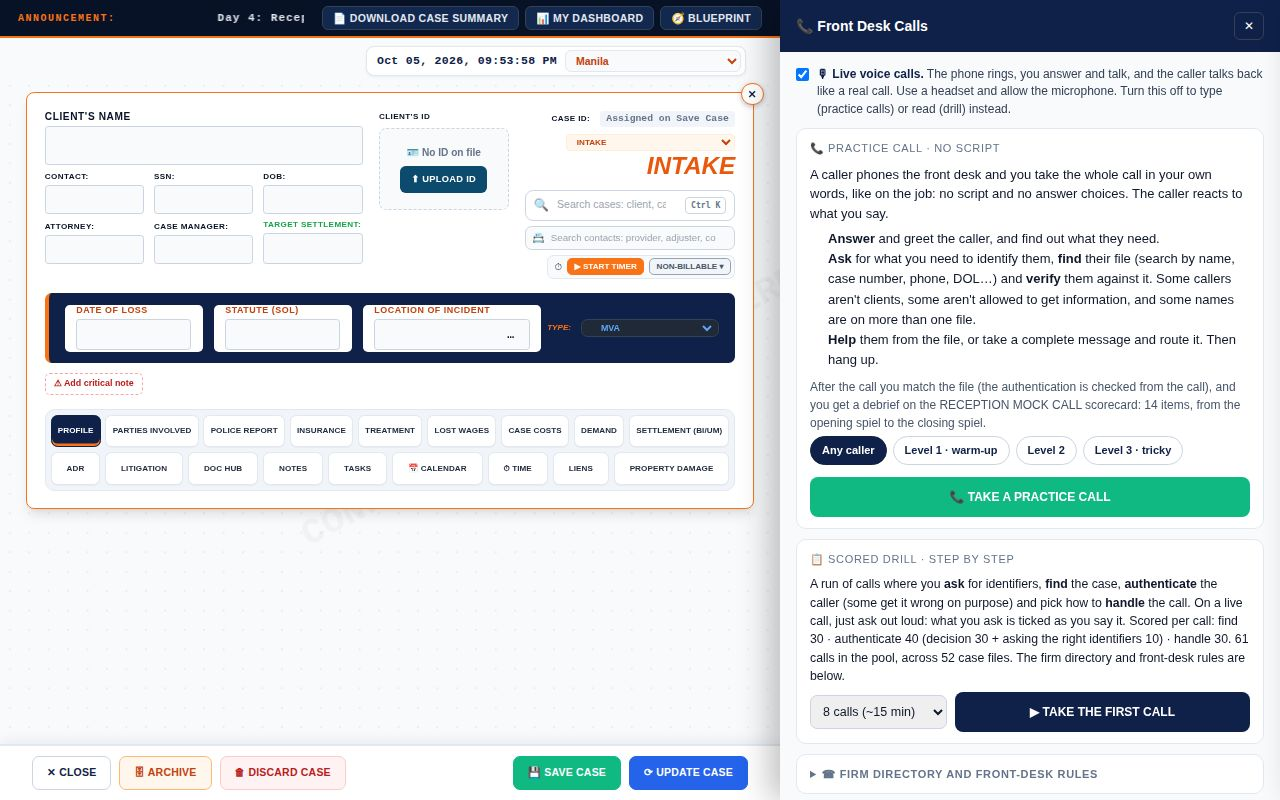
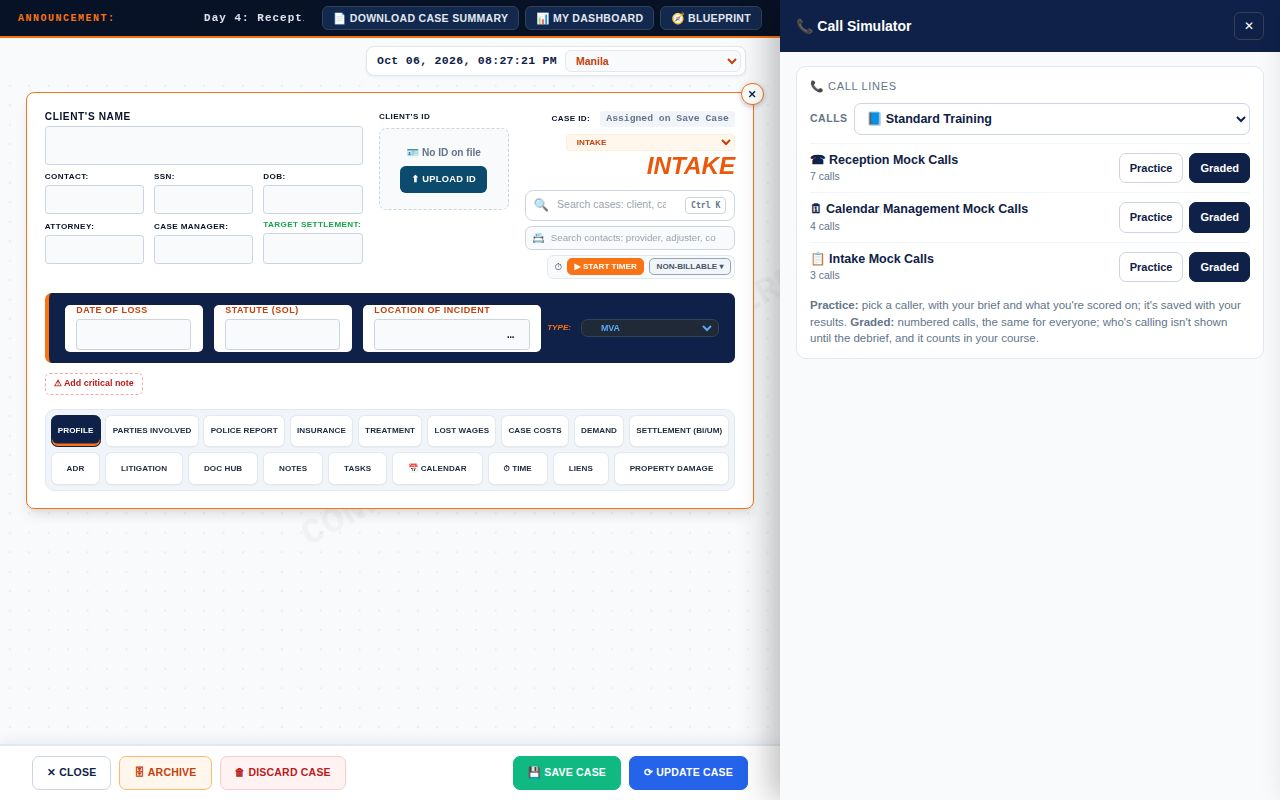
Call Simulator: the home screen is the call lines only
The panel's home screen keeps 📞 Call lines (the Calls dropdown, each line with Practice and
Graded) and drops everything else: the Core callers' list and its Standard buttons, the
scored drill, the firm directory, the live-usage panel and the results. The live voice choice
moves to a line's screen, above its calls; a call's debrief still shows the results (with the
Show dropdowns and the saved calls). The Core callers' practice call and the drill stay in the
code, unreachable from the home screen.

Tests start the drill and Core-caller calls directly; call-lines.cjs checks the home screen
holds only the call lines and reads the results on a debrief. README and the Blueprint slides
(text and the two Call Simulator screenshots) follow.

Claude-Session: https://claude.ai/code/session_01P8khRScK4qA2qPBPXA4ncp

Changed region(s): [[0.625, 0.0, 1.0, 0.6562], [0.625, 0.6875, 1.0, 0.9688], [0.1562, 0.0, 0.25, 0.0312]]

diff --git a/front-desk-drill.js b/front-desk-drill.js
@@ -246,9 +246,6 @@
     .fdd-rub b{color:#0f2148}.fdd-rub .nt{display:block;font-size:11.3px;color:#475569;margin-top:2px}
     .fdd-rub .how{font-size:9px;font-weight:800;text-transform:uppercase;border-radius:4px;padding:0 4px;margin-left:5px;background:#e0f2fe;color:#0369a1;vertical-align:1px}
     .fdd-rub .how.ai{background:#f3e8ff;color:#7e22ce}
-    .fdd-ftl{display:flex;flex-wrap:wrap;gap:6px;margin:8px 0 2px}
-    .fdd-ftl button{flex:1 1 auto;font-size:11.5px;font-weight:800;border:1px solid #0f2148;background:#eef2ff;color:#0f2148;border-radius:8px;padding:8px 10px;cursor:pointer;text-align:left}
-    .fdd-ftl button:hover{background:#0f2148;color:#fff}
     .fdd-pick{display:flex;flex-wrap:wrap;gap:6px;align-items:center;margin:2px 0 8px}
     .fdd-pick select{flex:1 1 180px;min-width:0;padding:7px 8px;border:1px solid #cbd5e1;border-radius:7px;font-size:12.5px;font-weight:700;color:#0f2148;background:#fff}
     .fdd-pick span{font-size:10.5px;font-weight:800;text-transform:uppercase;letter-spacing:.05em;color:#64748b}
@@ -581,24 +578,10 @@
         if (b) b.disabled = !(cur && cur.selected && cur.auth && cur.action != null);
     }
 
+    // The home screen is the call lines, and nothing else: every program's calls, Practice and Graded. (The Core callers'
+    // practice call and the scored drill are no longer offered there; a call's debrief still shows the results.)
     function homeHTML() {
-        const total = (window.DRILL_CALLS || []).length;
-        const lv = [[1, 'Level 1 · warm-up'], [2, 'Level 2'], [3, 'Level 3 · tricky']];
-        return `${liveOK() ? `<label class="fdd-live-opt" style="margin:0 0 10px"><input type="checkbox" id="fdd-live" ${livePref() ? 'checked' : ''} onchange="fddSetLive(this.checked)"><span><b>🎙 Live voice calls.</b> The phone rings, you answer and talk, and the caller talks back like a real call. Use a headset and allow the microphone. Turn this off to type (practice calls) or read (drill) instead.</span></label>`
-                : `<p class="fdd-live-opt" style="margin:0 0 10px">🎙 Live voice calls need Chrome or Edge with a microphone. In this browser you type (practice calls) or read (drill).</p>`}
-            <div class="fdd-sec"><h4>📞 Core callers · practice call (no script)</h4>
-            <div class="fdd-seg">${lv.map(([n, l]) => `<button class="${pcLevel === n ? 'on' : ''}" onclick="fddPracticeLevel(${n}, this)">${l} (${coreCalls(n).length})</button>`).join('')}</div>
-            <div id="fdd-core-calls">${coreListHTML()}</div>
-            ${ftButtonsHTML()}</div>
-            ${linesHomeHTML()}
-            <div class="fdd-sec"><h4>📋 Scored drill · step by step</h4>
-            <p style="margin:0 0 6px;line-height:1.5;font-size:12.3px">A run of calls where you <b>ask</b> for identifiers, <b>find</b> the case, <b>authenticate</b> the caller (some get it wrong on purpose) and pick how to <b>handle</b> the call. On a live call, just ask out loud: what you ask is ticked as you say it. Scored per call: find 30 · authenticate 40 (decision 30 + asking the right identifiers 10) · handle 30. The calls come in sets of ${DRILL_SET}, the same calls in the same order for everyone: ${total} calls across ${(window.MOCK_CASES || []).length} case files. The firm directory and front-desk rules are below.</p>
-            <div style="display:flex;gap:8px;align-items:center"><select id="fdd-set" aria-label="Which calls" style="padding:8px;border:1px solid #cbd5e1;border-radius:7px;font-size:12.5px;min-width:0" onchange="fddDrillSet(this.value)">
-                ${Array.from({ length: drillSets() }, (_, i) => { const c = drillSetCalls(i + 1); return `<option value="${i + 1}" ${drillSet === i + 1 ? 'selected' : ''}>Set ${i + 1} · ${esc(c[0].id)}–${esc(c[c.length - 1].id)} (${c.length} calls)</option>`; }).join('')}
-                <option value="0" ${drillSet === 0 ? 'selected' : ''}>All ${total} calls</option></select>
-            <button class="fdd-go" style="margin:0;flex:1" onclick="fddStart()">▶ Take the first call</button></div></div>
-            ${directoryHTML()}
-            ${historyHTML()}`;
+        return linesHomeHTML() || '<p style="color:#64748b;font-size:12px">The call lines aren\'t available.</p>';
     }
 
     window.fddDrillSet = function (v) { drillSet = parseInt(v, 10) || 0; };
@@ -1739,11 +1722,6 @@ Reply with exactly this JSON:
     const nextOn = (l, mode, id) => { const list = callsFor(l, mode), i = list.findIndex(c => c.id === id); return i >= 0 ? list[i + 1] || null : null; };
     const lineArg = (l) => esc(JSON.stringify([l.program, l.line]));
     const programLabel = (k) => ((packs() && packs().programOf(k)) || {}).label || k;
-    // The three Standard Training lines, by the Core callers' practice call.
-    function ftButtonsHTML() {
-        const K = packs(); if (!K) return '';
-        return `<div class="fdd-ftl">${K.linesOf('FT').map(l => `<button onclick="fddOpenLine(${lineArg(l)})">${esc(l.icon)} ${esc(l.line)}</button>`).join('')}</div>`;
-    }
     function linesHomeHTML() {
         const K = packs(); if (!K) return '';
         const view = lnView || defaultView();
@@ -1789,7 +1767,11 @@ Reply with exactly this JSON:
         const practice = `<div class="fdd-sec fdd-practice-calls"><h4>📞 Practice calls (${calls.length})</h4>
                 ${calls.map(c => `<div class="fdd-row" data-call="${esc(c.id)}" onclick="fddLineCall('${esc(c.id)}','practice')"><span class="nm">${esc(c.title)}<br><span class="mt">${esc(c.name)} · ${esc(c.role)}</span></span>
                     <span class="mt">${out(c)}${esc(c.level || '')}</span>${bestHTML(c.id, 'practice')}</div>`).join('')}</div>`;
+        // live voice or typing, chosen here (the home screen is only the call lines)
+        const live = liveOK() ? `<label class="fdd-live-opt" style="margin:0 0 10px"><input type="checkbox" id="fdd-live" ${livePref() ? 'checked' : ''} onchange="fddSetLive(this.checked)"><span><b>🎙 Live voice calls.</b> The phone rings, you answer and talk, and the caller talks back like a real call. Use a headset and allow the microphone. Turn this off to type instead.</span></label>`
+            : `<p class="fdd-live-opt" style="margin:0 0 10px">🎙 Live voice calls need Chrome or Edge with a microphone. In this browser you type instead.</p>`;
         return `<div class="fdd-sec" style="padding-bottom:8px"><h4 style="margin:0">${esc(l.icon)} ${esc(l.line)} · ${esc(programLabel(l.program))}</h4></div>
+            ${live}
             ${LN.graded ? graded + practice : practice + graded}
             ${l.tips ? `<details class="fdd-sec fdd-dir"><summary>Tips for this line</summary><ul>${l.tips.map(t => `<li>${esc(t)}</li>`).join('')}</ul></details>` : ''}
             <button class="fdd-go" onclick="fddHome()">← All call lines</button>`;

diff --git a/blueprint-content.js b/blueprint-content.js
@@ -87,13 +87,13 @@
               tip: 'Start the timer when you open a case, and say what you did when you stop it.',
               shot: 'blueprint/trainee-calendar.jpg', shotAlt: 'The case\'s Calendar tab: the attorneys\' week, already busy' },
             { icon: '📞', title: 'Call Simulator', points: [
-                'Practice calls: a caller phones in, and you take the whole call in your own words.',
+                'The call lines: pick your program\'s calls (Calls ▾), then Practice or Graded.',
+                'A caller phones in (or you place the call), and you take the whole call in your own words, by voice or typing.',
                 'Verify the caller before you share anything: full name, date of birth, date of loss and one more identifier.',
-                'Find their file by ear: the search understands names spelled the way they sound.',
-                'The scored drill: 5, 8, 12 or all the calls, each one scored, with feedback at the end.'],
+                'After the call: your note and a debrief on the call\'s goals, with your results.'],
               where: 'Sidebar → 📞 Call Simulator.',
               tip: 'Never give advice or a case value on a call. Take a complete message instead.',
-              shot: 'blueprint/trainee-reception.jpg', shotAlt: 'The Call Simulator: the Core callers listed by level, and the scored drill' },
+              shot: 'blueprint/trainee-reception.jpg', shotAlt: 'The Call Simulator: the call lines, each with Practice and Graded' },
             { icon: '📊', title: 'My Dashboard and the case summary', points: [
                 '📊 My Dashboard: automatic reviews of the cases you saved, with what\'s missing and how complete each one is.',
                 'Your trends over time, for completeness and for the writing in your notes.',
@@ -206,14 +206,13 @@
               tip: 'Feedback: two strengths, one thing to fix, and the line they could have said.',
               shot: 'blueprint/trainer-caller-scenarios.jpg', shotAlt: 'A case file\'s Caller scenarios panel, with its reception call scripts' },
             { icon: '📞', title: 'Call Simulator', points: [
-                'Practice call: the trainee picks a caller from the list (by level); they take the whole call in their own words, by voice or typing.',
-                'Scored drill: a run of calls, step by step, 100 points each: find the file 30, authenticate 40, handle the call 30.',
-                'After a practice call the trainee matches the file (the search finds names spelled the way they sound), checks the authentication and gets a debrief.',
-                'Authentication is ticked from the call itself: full name, date of birth, date of loss and one more identifier on file.',
-                'Its home screen shows you the team table: runs, average and best, seconds per call.'],
+                'Its home screen is the call lines: each program\'s calls (Calls ▾), each line with Practice and Graded.',
+                'Graded calls are numbered (Graded call 1, 2…), the same for everyone, and count in the trainee\'s course.',
+                'The trainee takes the whole call in their own words, by voice or typing, writes the line\'s note and gets a debrief on the call\'s goals.',
+                'A call\'s debrief shows you the team table and 🎧 Saved calls, with the Show dropdowns to grade one line.'],
               where: 'Sidebar → 📞 Call Simulator.',
               tip: 'Take one practice call yourself before the class does, to check the caller and the debrief.',
-              shot: 'blueprint/trainer-reception.jpg', shotAlt: 'The Call Simulator\'s team table and saved calls' },
+              shot: 'blueprint/trainer-reception.jpg', shotAlt: 'The Call Simulator: a line\'s numbered graded calls' },
             { icon: '🧾', title: 'The RECEPTION MOCK CALL scorecard', points: [
                 'The debrief rates 14 items, 0 to 5 each; the score is the share of points on the items that apply.',
                 'Checked from the call: the introduction, authentication, the closing spiel, time (the first ring, about 3 s) and dead air or fillers.',

diff --git a/README.md b/README.md
@@ -67,9 +67,9 @@ The sidebar no longer lists everyone's cases. Cases trainees save go into the **
 
 What the cases cover, from starter to advanced: every phase from Intake to Litigation, and a wide spread of case types: car crashes (rear-end, T-bone, rideshare, hit-and-run, commercial truck), a pedestrian hit by a city bus (government-claim notice), motorcycle, bicycle, slip and fall, dog bite (adult and child), premises liability, product liability (evidence that must not be released) and wrongful death (estate administrator). MC-25 … MC-36 add an e-scooter, a boating and a pedestrian case, negligent security, an elevator case in litigation (mediation), a trampoline-park injury, the UM settlement phase, and a prior attorney's lien and a pre-settlement funding lien. Authorization situations include the client only, an authorized daughter, a son with power of attorney, a guardian parent with the other parent *not* authorized, divorced parents with joint custody who are *both* authorized, an estate administrator with other relatives *not* authorized, a funding company allowed the case status only, a client with a safety flag (never confirm she's a client), an employer asking about a client, and a potential client with the statute of limitations weeks away. Call types include offers with deadlines, recorded-statement requests, deposition changes, a mediation center, a process server, check pickup by a third party, collections threats, a media call, a Spanish-speaking caller, a file transfer to new counsel, the client's former law firm, and callers who give only our case number.
 
-## 📞 Call Simulator: the call lines, the Core callers' practice calls and the scored drill
+## 📞 Call Simulator: the call lines
 
-Sidebar → **📞 Call Simulator** (after 📝 New Intake), for trainees and Admins alike. This is the main Call Simulator: every platform's Call Simulator link opens it (below). The panel offers the **call lines** (every program's mock calls, Practice and Graded), the **Core callers' practice call** (the front desk's own callers, taken in the trainee's own words) and the **scored drill**, a run of front-desk calls taken step by step.
+Sidebar → **📞 Call Simulator** (after 📝 New Intake), for trainees and Admins alike. This is the main Call Simulator: every platform's Call Simulator link opens it (below). Its home screen is the **call lines** and nothing else: every program's mock calls, each line with **Practice** and **Graded**. (The Core callers' practice call and the scored drill below are no longer offered there; their code is still in `front-desk-drill.js`.) The **🎙 Live voice calls** choice is on a line's screen, above its calls, and a call's debrief shows the results.
 
 ### 📞 Call lines (`call-packs.js`)
 
@@ -82,10 +82,10 @@ Every program's mock calls, by line, on the same phone as the practice calls bel
 | 🚗 Property Damage | Claim Setup · Coverage & Liability · Rental, Tow & Shop · Negotiation & Total Loss · Settlement & Close (Angela Carter's PD claim) |
 | 🧑💼 EA / PA | Executive Calls · Gatekeeping & Stakeholders · Legal Operations · Lifestyle & Estate · Intake Calls · Revenue & Outreach (Elias Thorne's world, from the EA-PA program's client profile, Live Roleplay topics and intake callers) |
 
-The FT, CM and PD calls came from the Training Portal's Call Simulator and now live here; the EA / PA lines were written from the EA-PA program. The ☎ Reception, 🗓 Calendar Management and 📋 Intake Mock Calls buttons sit with the Core callers' practice call. **📞 Call lines** has a **Calls** dropdown that keeps the calls apart: by program (Standard Training, Case Management, Property Damage, EA / PA) or across them (☎ Reception, 📋 Intake, 🗓 Calendaring, which also opens the 🗓 Attorney's Calendar and the Portal's calendar simulators).
+The FT, CM and PD calls came from the Training Portal's Call Simulator and now live here; the EA / PA lines were written from the EA-PA program. **📞 Call lines** has a **Calls** dropdown that keeps the calls apart: by program (Standard Training, Case Management, Property Damage, EA / PA) or across them (☎ Reception, 📋 Intake, 🗓 Calendaring, which also opens the 🗓 Attorney's Calendar and the Portal's calendar simulators).
 - **It opens on the Cases System:** opening the Call Simulator (the sidebar's 📞 Call Simulator, or a `?calls=1` link) closes Master Control and My Dashboard, so the panel is beside the case workspace. An Admin who signs in on a `?calls=1` link stays on the Call Simulator: Master Control doesn't open over it (`portal.js`).
-- **Calls picked, not random:** every call is listed and the trainee picks it. The Core callers are listed by level (D01, D02…); a line lists its 🎯 graded calls and its 📞 practice calls; the scored drill comes in sets of 8 (Set 1 is D01–D08). Each call shows the trainee's best score on it (✓ 85%; `/api/drill-results` names each result's call, `call_id`).
-- **Results, kept apart for grading:** above My results and the team results, a **Show** dropdown picks the calls (all, the Core callers, a drill set, a program's calls, or one line) and a second one Practice and graded / 🎯 Graded only / Practice only. The team table's averages, and 🎧 Saved calls, follow them, so a trainer can grade one line's graded calls for the whole team.
+- **Calls picked, not random:** every call is listed and the trainee picks it: a line lists its 🎯 graded calls and its 📞 practice calls. Each call shows the trainee's best score on it (✓ 85%; `/api/drill-results` names each result's call, `call_id`).
+- **Results, kept apart for grading:** on a call's debrief, above My results and the team results, a **Show** dropdown picks the calls (all, the Core callers, a drill set, a program's calls, or one line) and a second one Practice and graded / 🎯 Graded only / Practice only. The team table's averages, and 🎧 Saved calls, follow them, so a trainer can grade one line's graded calls for the whole team.
 
 - **Practice** (per line): pick a caller from the line's list. The brief above the phone has your role, what you know, the file (FT: **Open MC-05**) or the case summary / client profile you work from, what you're scored on, the line's tips and the note you'll write.
 - **Graded** (per line): numbered calls (**Graded call 1, 2…**), the same for everyone, so a trainer can assign one ("Intake, graded call 3"). They're numbered in an order of their own (not the practice list's), and who's calling isn't shown until the debrief (an incoming call shows **Unknown caller**, and an FT brief doesn't name the file: you get the name, verify and find the file). After the debrief, **🎯 Next: Graded call 4** takes the next one. The goals aren't shown before the call, and the note is required. It counts in the course: FT by lesson (Reception 4, Calendar Management 5, Intake 6), the other programs in their own course by line (`courseOf`). When it's saved, `/api/drill-results` sends it to the Training Portal (`/api/call-results`, with the AI gateway's secret `AI_GATEWAY_SECRET`), which keeps it on the trainee's Portal results and in their course's store, where the course shows it on their progress; the debrief says where it counted ("It counts toward your Standard Training, lesson 5: your best there is 82%"). If the Portal can't be reached, the call is still saved here.
@@ -95,6 +95,8 @@ The FT, CM and PD calls came from the Training Portal's Call Simulator and now l
 - Add a call by adding it to `CALLS` in `call-packs.js` (a new line to `LINES`); `.github/scripts/call-lines.cjs` checks every call has what the phone, the caller and the grader need.
 
 ### 📞 Core callers: practice calls (no script)
+
+*No longer on the Call Simulator's home screen (it's the call lines only); kept in the code.*
 
 The `DRILL_CALLS` callers are listed by level (Level 1 · warm-up, Level 2, Level 3 · tricky), each with the start of what they call about and the trainee's best score on them. The trainee picks one (after the debrief, **📞 Next caller** is the next on the list, or **↻ Take this call again**), and takes the whole call in their own words. There are no answer choices and no identifier buttons, and the caller's lines aren't shown before they're said.
 
@@ -123,6 +125,8 @@ The `DRILL_CALLS` callers are listed by level (Level 1 · warm-up, Level 2, Leve
 **🎧 Saved calls.** Every saved practice call can be opened again from the Call Simulator's results: an Admin's list has every trainee's calls, and a trainee's has their own. **View** shows the call's score, the 14-item scorecard with its notes, the review (what went well, what to work on, a better line), the receptionist's note and the whole transcript (`/api/drill-results?id=`, an Admin any call, a trainee only their own).
 
 ### 📋 The scored drill
+
+*No longer on the Call Simulator's home screen (it's the call lines only); kept in the code.*
 
 A drill is a set of 8 incoming calls from `DRILL_CALLS` in `mock-cases.js`, in order (Set 1 is D01–D08, Set 2 D09–D16…; or all 61), so everyone who takes a set gets the same calls and the scores compare. The set is saved with the result (**Drill · Set 2 · 8**), and the results' **Show** dropdown picks one set. For each call the trainee:
 
